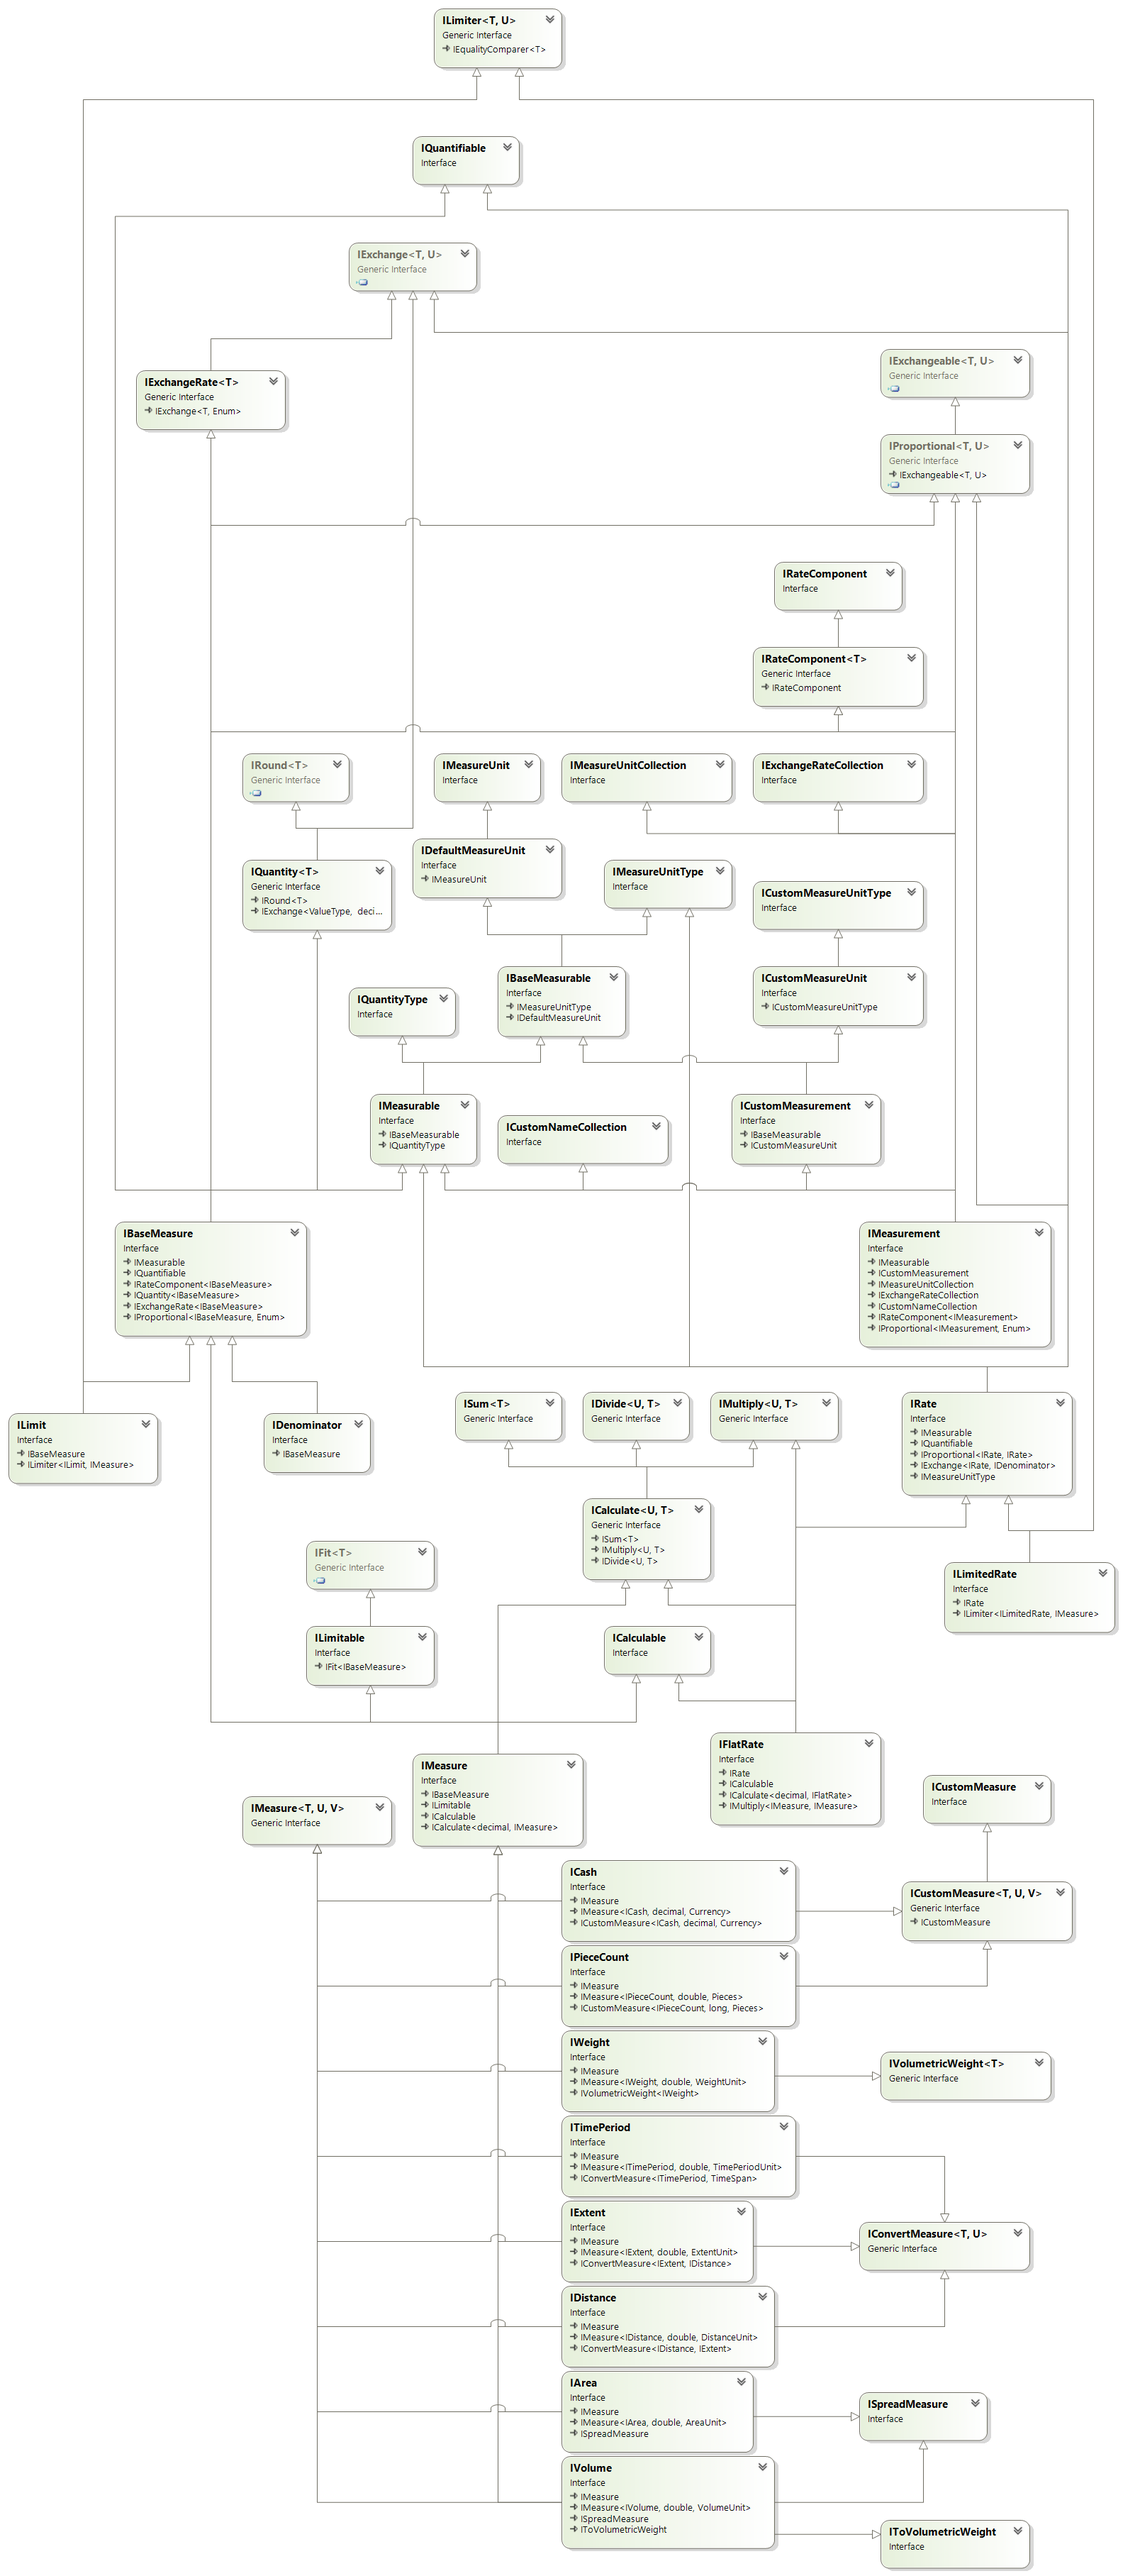
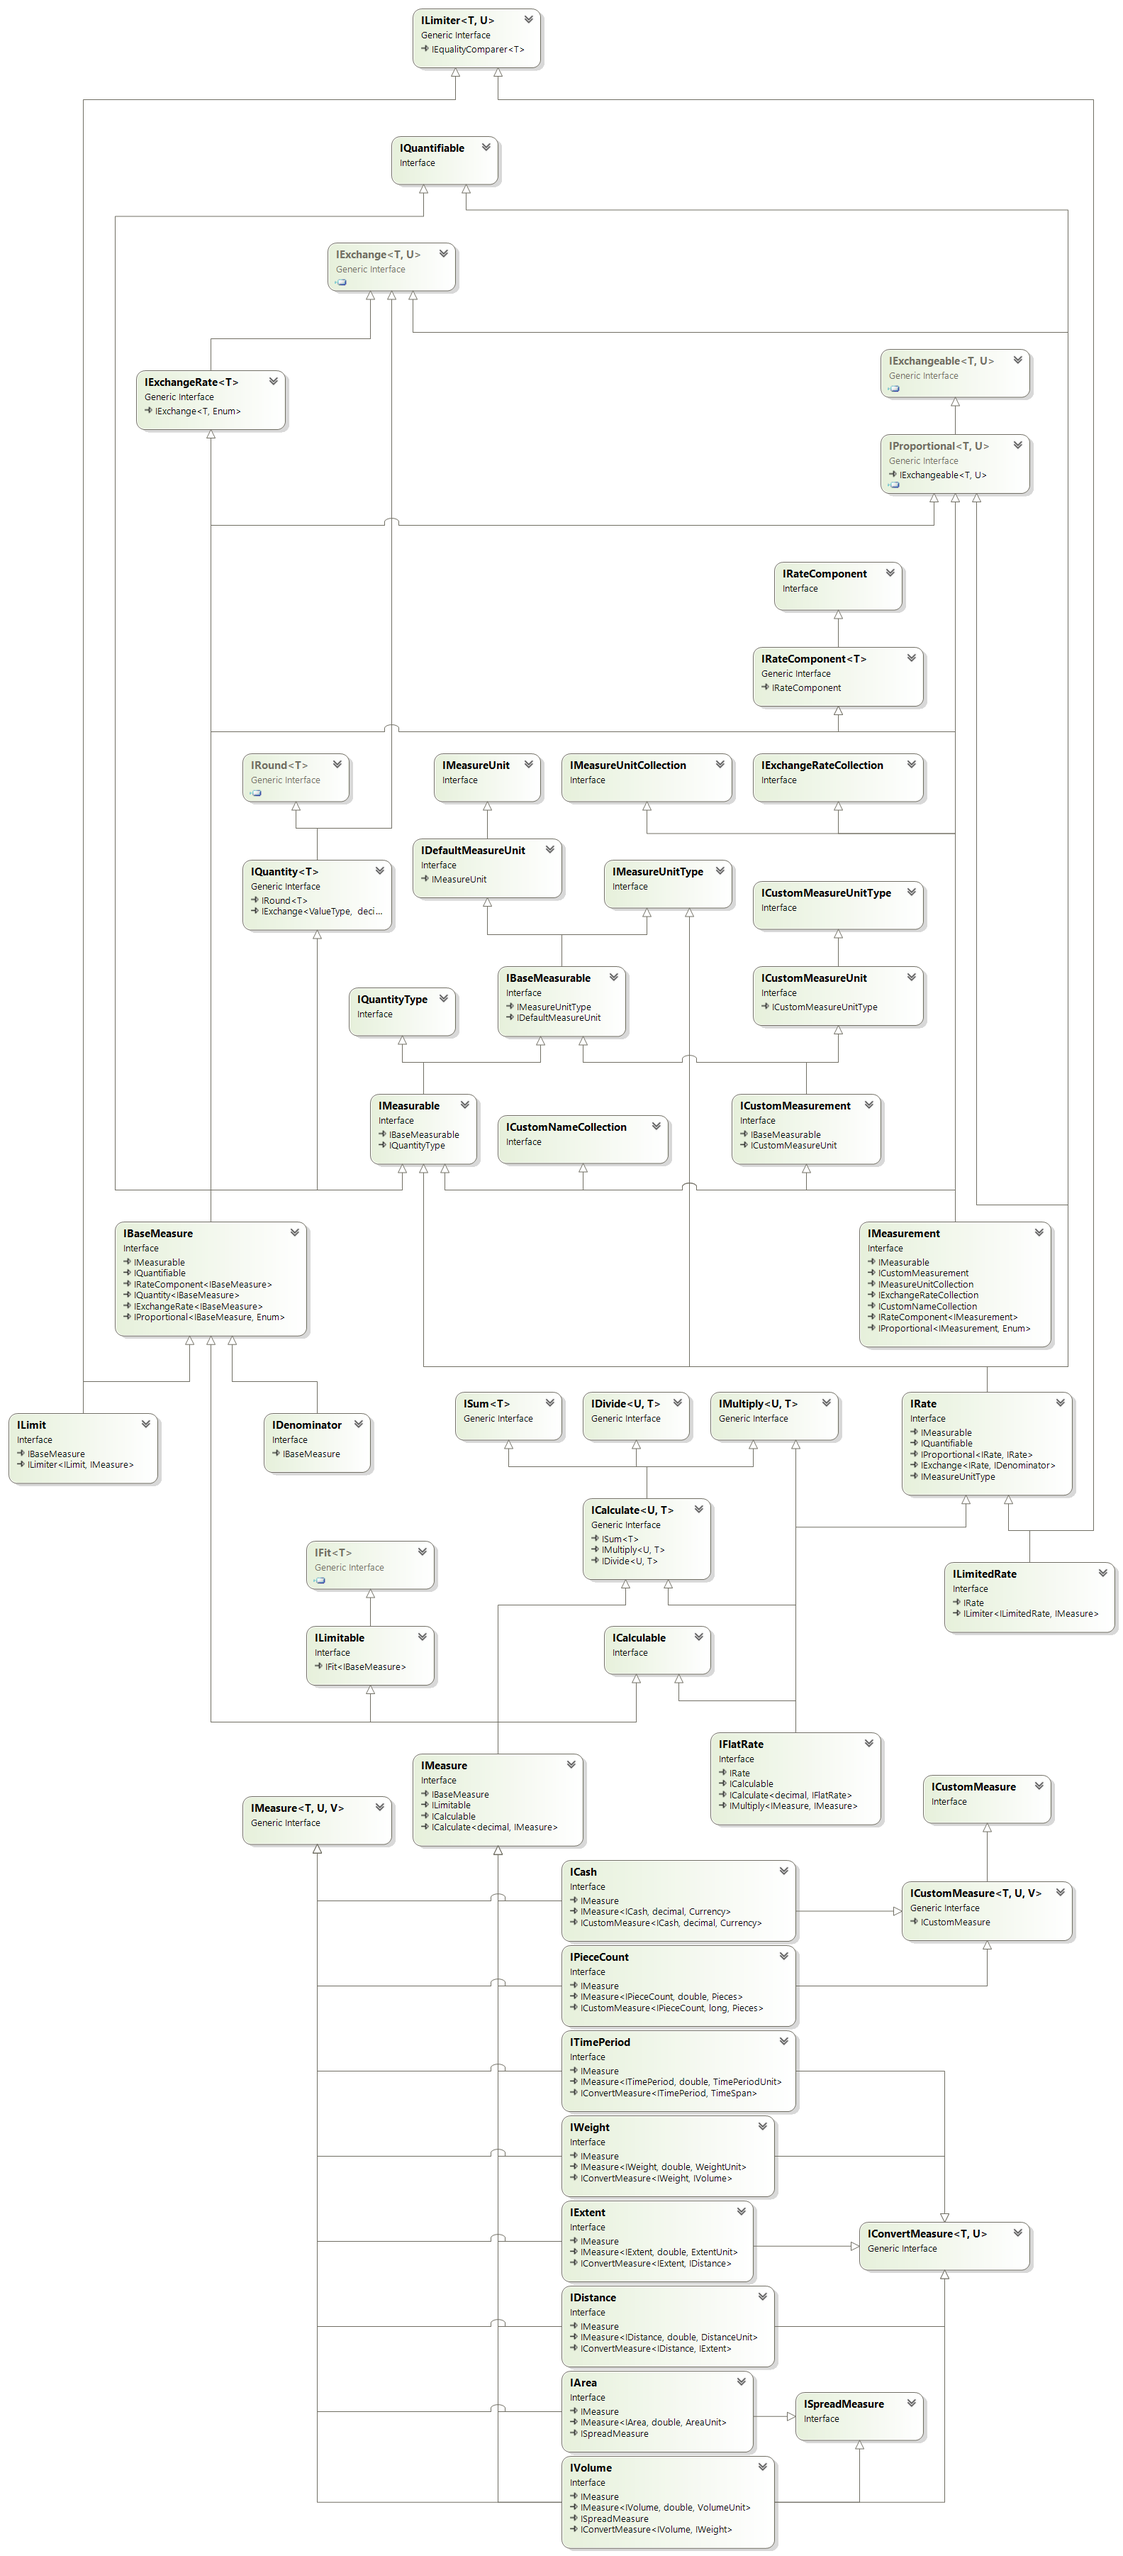
Measurables cont.

diff --git a/Measurables/Types/Implementations/MeasureTypes/Weight.cs b/Measurables/Types/Implementations/MeasureTypes/Weight.cs
@@ -1,4 +1,6 @@
-namespace CsabaDu.FooVaria.Measurables.Types.Implementations.MeasureTypes;
+using CsabaDu.FooVaria.Measurables.Types.MeasureTypes;
+
+namespace CsabaDu.FooVaria.Measurables.Types.Implementations.MeasureTypes;
 
 internal sealed class Weight : Measure, IWeight
 {
@@ -12,6 +14,17 @@ internal sealed class Weight : Measure, IWeight
 
     internal Weight(IMeasureFactory measureFactory, ValueType quantity, IMeasurement measurement) : base(measureFactory, quantity, measurement)
     {
+    }
+    public IWeight ConvertFrom(IVolume volume)
+    {
+        return NullChecked(volume, nameof(volume)).ConvertMeasure();
+    }
+
+    public IVolume ConvertMeasure()
+    {
+        decimal quantity = DefaultQuantity * CrossMeasureRatio;
+
+        return (IVolume)GetMeasure(quantity, default(VolumeUnit));
     }
 
     public IWeight GetMeasure(double quantity, WeightUnit measureUnit)
@@ -44,15 +57,15 @@ internal sealed class Weight : Measure, IWeight
         return (double)Quantity;
     }
 
-    public IWeight GetVolumetricWeight(IVolume volume, decimal ratio, bool isGreater = true)
-    {
-        throw new NotImplementedException();
-    }
-
     public IWeight GetWeight(IBaseMeasure baseMeasure)
     {
         return (IWeight)GetMeasure(baseMeasure);
     }
+
+    //public IWeight GetVolumetricWeight(IVolume volume, decimal ratio, bool isGreater = true)
+    //{
+    //    throw new NotImplementedException();
+    //}
 
     //public IWeight GetWeight(double quantity, WeightUnit weightUnit)
     //{

diff --git a/Measurables/Types/Implementations/MeasureTypes/Volume.cs b/Measurables/Types/Implementations/MeasureTypes/Volume.cs
@@ -1,4 +1,6 @@
-namespace CsabaDu.FooVaria.Measurables.Types.Implementations.MeasureTypes;
+using CsabaDu.FooVaria.Measurables.Types.MeasureTypes;
+
+namespace CsabaDu.FooVaria.Measurables.Types.Implementations.MeasureTypes;
 
 internal sealed class Volume : Measure, IVolume
 {
@@ -12,6 +14,17 @@ internal sealed class Volume : Measure, IVolume
 
     internal Volume(IMeasureFactory measureFactory, ValueType quantity, IMeasurement measurement) : base(measureFactory, quantity, measurement)
     {
+    }
+    public IVolume ConvertFrom(IWeight weight)
+    {
+        return NullChecked(weight, nameof(weight)).ConvertMeasure();
+    }
+
+    public IWeight ConvertMeasure()
+    {
+        decimal quantity = DefaultQuantity / CrossMeasureRatio;
+
+        return (IWeight)GetMeasure(quantity, default(WeightUnit));
     }
 
     public IVolume GetMeasure(double quantity, VolumeUnit measureUnit)
@@ -54,10 +67,10 @@ internal sealed class Volume : Measure, IVolume
         return (IVolume)GetMeasure(baseMeasure);
     }
 
-    public IWeight ToVolumetricWeight(decimal ratio, WeightUnit weightUnit = WeightUnit.g)
-    {
-        throw new NotImplementedException();
-    }
+    //public IWeight ToVolumetricWeight(decimal ratio, WeightUnit weightUnit = WeightUnit.g)
+    //{
+    //    throw new NotImplementedException();
+    //}
 
     //public IVolume GetVolume(double quantity, VolumeUnit volumeUnit)
     //{

diff --git a/Measurables/Types/MeasureTypes/IWeight.cs b/Measurables/Types/MeasureTypes/IWeight.cs
@@ -1,10 +1,11 @@
 namespace CsabaDu.FooVaria.Measurables.Types.MeasureTypes;
 
-public interface IWeight : IMeasure, IMeasure<IWeight, double, WeightUnit>, IVolumetricWeight<IWeight>
+public interface IWeight : IMeasure, IMeasure<IWeight, double, WeightUnit>/*, IVolumetricWeight<IWeight>*/, IConvertMeasure<IWeight, IVolume>
 {
+    IWeight GetWeight(IBaseMeasure baseMeasure);
+}
+
     //IWeight GetWeight(double quantity, WeightUnit weightUnit);
     //IWeight GetWeight(ValueType quantity, string name);
     //IWeight GetWeight(ValueType quantity, IMeasurement? measurement = null);
-    IWeight GetWeight(IBaseMeasure baseMeasure);
     //IWeight GetWeight(IWeight? other = null);
-}

diff --git a/Measurables/Types/MeasureTypes/IVolume.cs b/Measurables/Types/MeasureTypes/IVolume.cs
@@ -1,6 +1,6 @@
 namespace CsabaDu.FooVaria.Measurables.Types.MeasureTypes;
 
-public interface IVolume : IMeasure, IMeasure<IVolume, double, VolumeUnit>, ISpreadMeasure, IToVolumetricWeight
+public interface IVolume : IMeasure, IMeasure<IVolume, double, VolumeUnit>, ISpreadMeasure/*, IToVolumetricWeight*/, IConvertMeasure<IVolume, IWeight>
 {
     //IVolume GetVolume(double quantity, VolumeUnit volumeUnit);
     //IVolume GetVolume(ValueType quantity, string name);

diff --git a/Measurables/Types/Implementations/MeasureTypes/Extent.cs b/Measurables/Types/Implementations/MeasureTypes/Extent.cs
@@ -24,7 +24,7 @@ internal sealed class Extent : Measure, IExtent
 
     public IDistance ConvertMeasure()
     {
-        decimal quantity = DefaultQuantity / DistancePerExtent;
+        decimal quantity = DefaultQuantity / CrossMeasureRatio;
 
         return (IDistance)GetMeasure(quantity, default(DistanceUnit));
     }

diff --git a/Measurables/Types/Implementations/MeasureTypes/Distance.cs b/Measurables/Types/Implementations/MeasureTypes/Distance.cs
@@ -20,7 +20,7 @@ internal sealed class Distance : Measure, IDistance
 
     public IExtent ConvertMeasure()
     {
-        decimal quantity = DefaultQuantity * DistancePerExtent;
+        decimal quantity = DefaultQuantity * CrossMeasureRatio;
 
         return (IExtent)GetMeasure(quantity, default(ExtentUnit));
 

diff --git a/Measurables/Types/Implementations/Measure.cs b/Measurables/Types/Implementations/Measure.cs
@@ -6,7 +6,7 @@ internal abstract class Measure : BaseMeasure, IMeasure
 {
     #region Constants
     private const int DefaultMeasureQuantity = 0;
-    protected const int DistancePerExtent = 1000;
+    protected const int CrossMeasureRatio = 1000;
     #endregion
 
     #region Constructors
